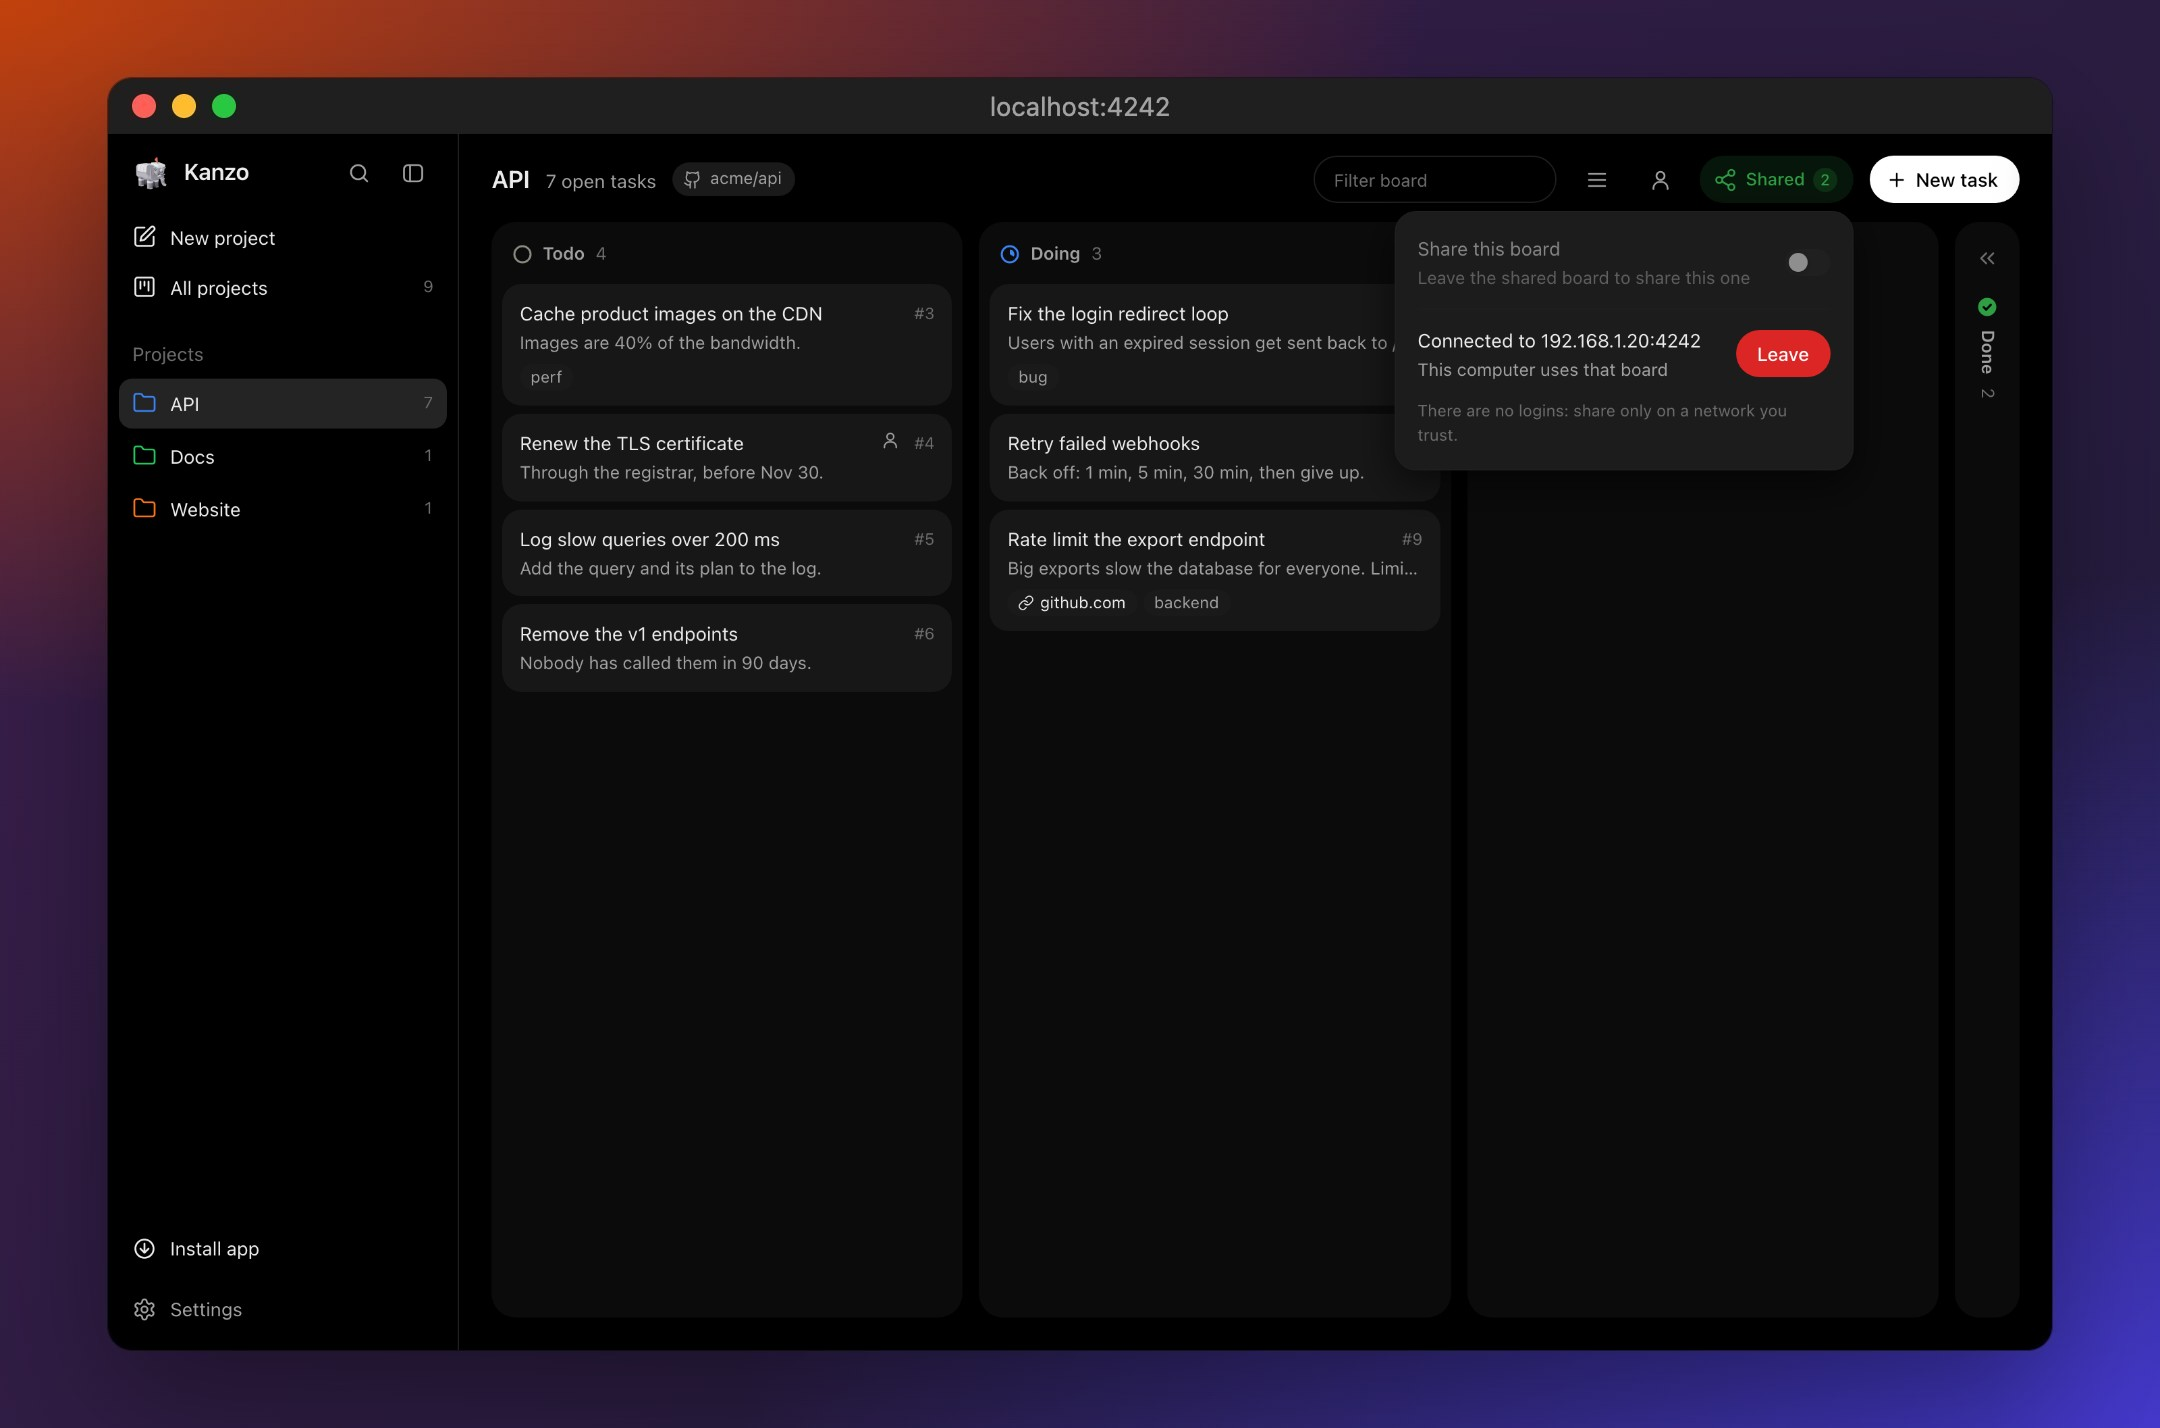
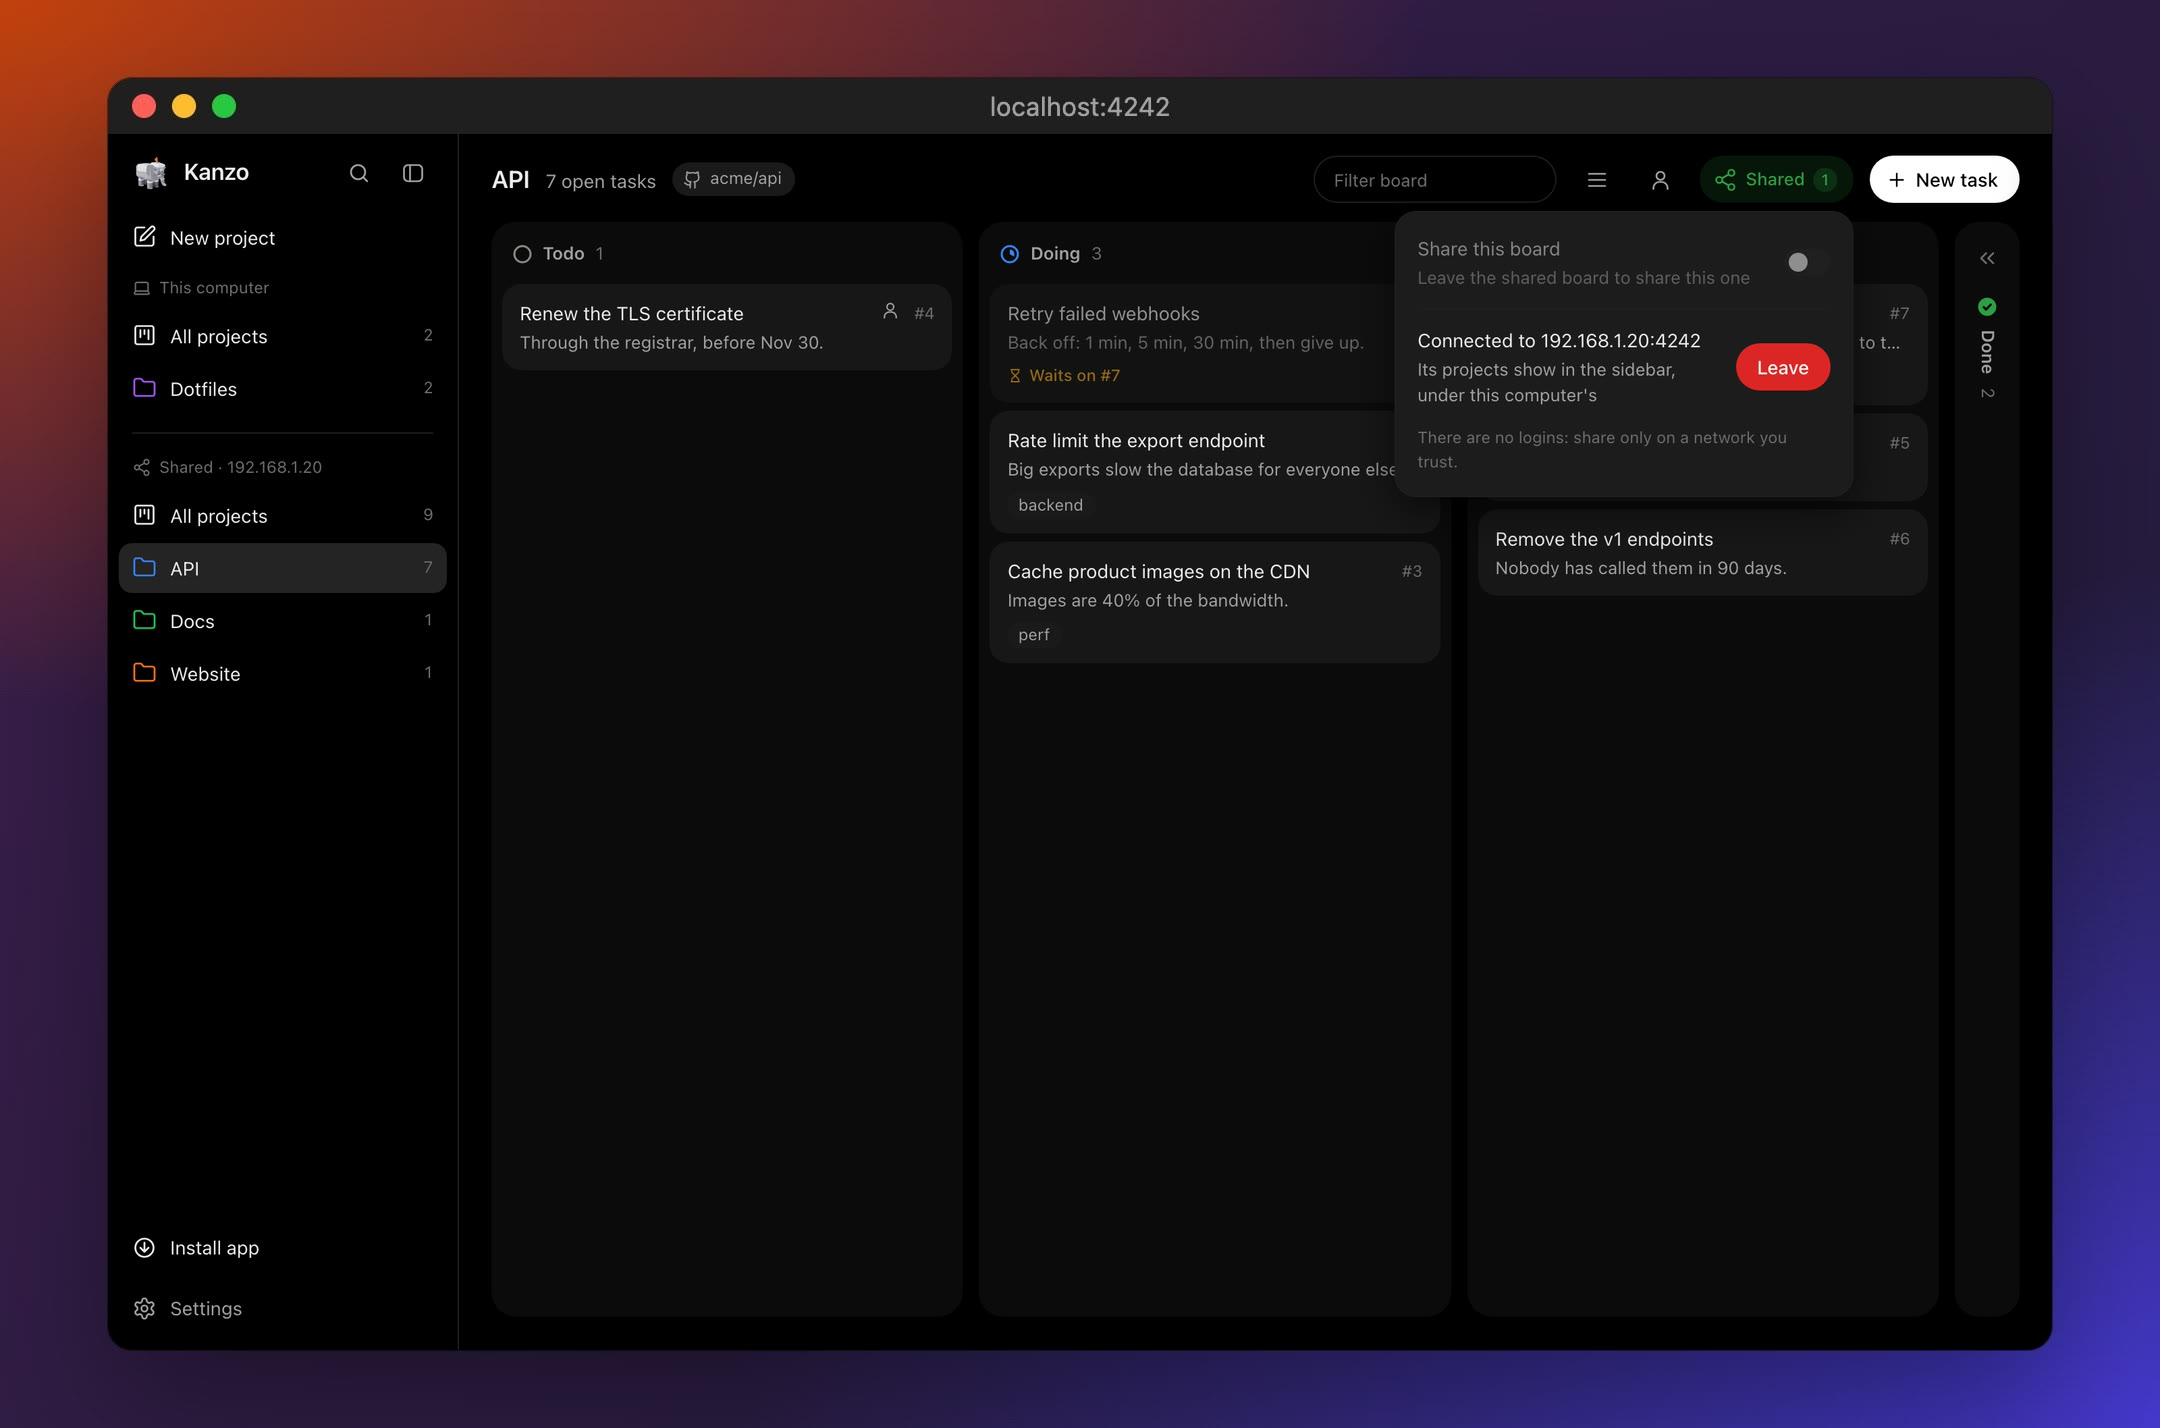
Show the joined sidebar in the README's join picture
The picture showed the old popover text, "This computer uses that board",
and a sidebar with only the shared projects. It now shows Dotfiles under
This computer, the shared projects under Shared · 192.168.1.20, and the
new text. The window frame and background are the old picture's.

diff --git a/README.tr.md b/README.tr.md
@@ -191,7 +191,7 @@ Birden çok bilgisayar, tek pano, aynı anda: herkes aynı görevleri görür ve
 
 <picture>
   <source media="(prefers-color-scheme: dark)" srcset="docs/img/join-dark.jpg">
-  <img alt="Başka bir bilgisayardaki paylaşma penceresi: paylaşılan panoya bağlı, Leave düğmesiyle" src="docs/img/join-light.jpg">
+  <img alt="Paylaşılan panoya bağlı başka bir bilgisayar: kenar çubuğu önce bu bilgisayarın projelerini, sonra paylaşılan panonunkileri listeliyor; paylaşma penceresinde Leave düğmesi var" src="docs/img/join-light.jpg">
 </picture>
 
 Hiçbir şey yeniden başlamaz ve hiçbir şeyi ayarlamak gerekmez. Kenar çubukları, paylaşılan panonun projelerini kendi projelerinin altında gösterir, böylece özel projeleri bir tık uzakta kalır; ajanları da paylaşılan panoyu aynı `kanzo mcp` üzerinden kullanır ve projeyi hâlâ çalıştıkları repodan bulur. Paylaşımı istediğin an kapat ya da **Leave**'e tıkla.

diff --git a/README.md b/README.md
@@ -188,7 +188,7 @@ Several computers, one board, at the same time: everyone sees the same tasks, an
 
 <picture>
   <source media="(prefers-color-scheme: dark)" srcset="docs/img/join-dark.jpg">
-  <img alt="The share popover on another computer: connected to the shared board, with a Leave button" src="docs/img/join-light.jpg">
+  <img alt="Another computer connected to the shared board: its sidebar lists this computer's projects, then the shared board's, and the share popover has a Leave button" src="docs/img/join-light.jpg">
 </picture>
 
 Nothing restarts and nothing needs configuring. Their sidebar shows the shared board's projects under their own, so their private projects stay one click away, and their agents use the shared board through the same `kanzo mcp`, still finding the project from the repo they work in. Turn sharing off, or click **Leave**, at any time.

diff --git a/README.zh.md b/README.zh.md
@@ -188,7 +188,7 @@ codex mcp add kanzo -- kanzo mcp                 # Codex
 
 <picture>
   <source media="(prefers-color-scheme: dark)" srcset="docs/img/join-dark.jpg">
-  <img alt="另一台电脑上的共享弹窗：已连接到共享看板，并有一个“离开”按钮" src="docs/img/join-light.jpg">
+  <img alt="另一台电脑已连接到共享看板：侧边栏先列出本电脑的项目，再列出共享看板的项目，共享弹窗中有一个“离开”按钮" src="docs/img/join-light.jpg">
 </picture>
 
 不用重启，也不用配置。它们的侧边栏会在自己的项目下方显示共享看板的项目，私有项目仍然一键可达；它们的智能体通过同样的 `kanzo mcp` 使用它，仍然根据所在仓库找到项目。你可以随时关闭共享，或点击 **离开**。
